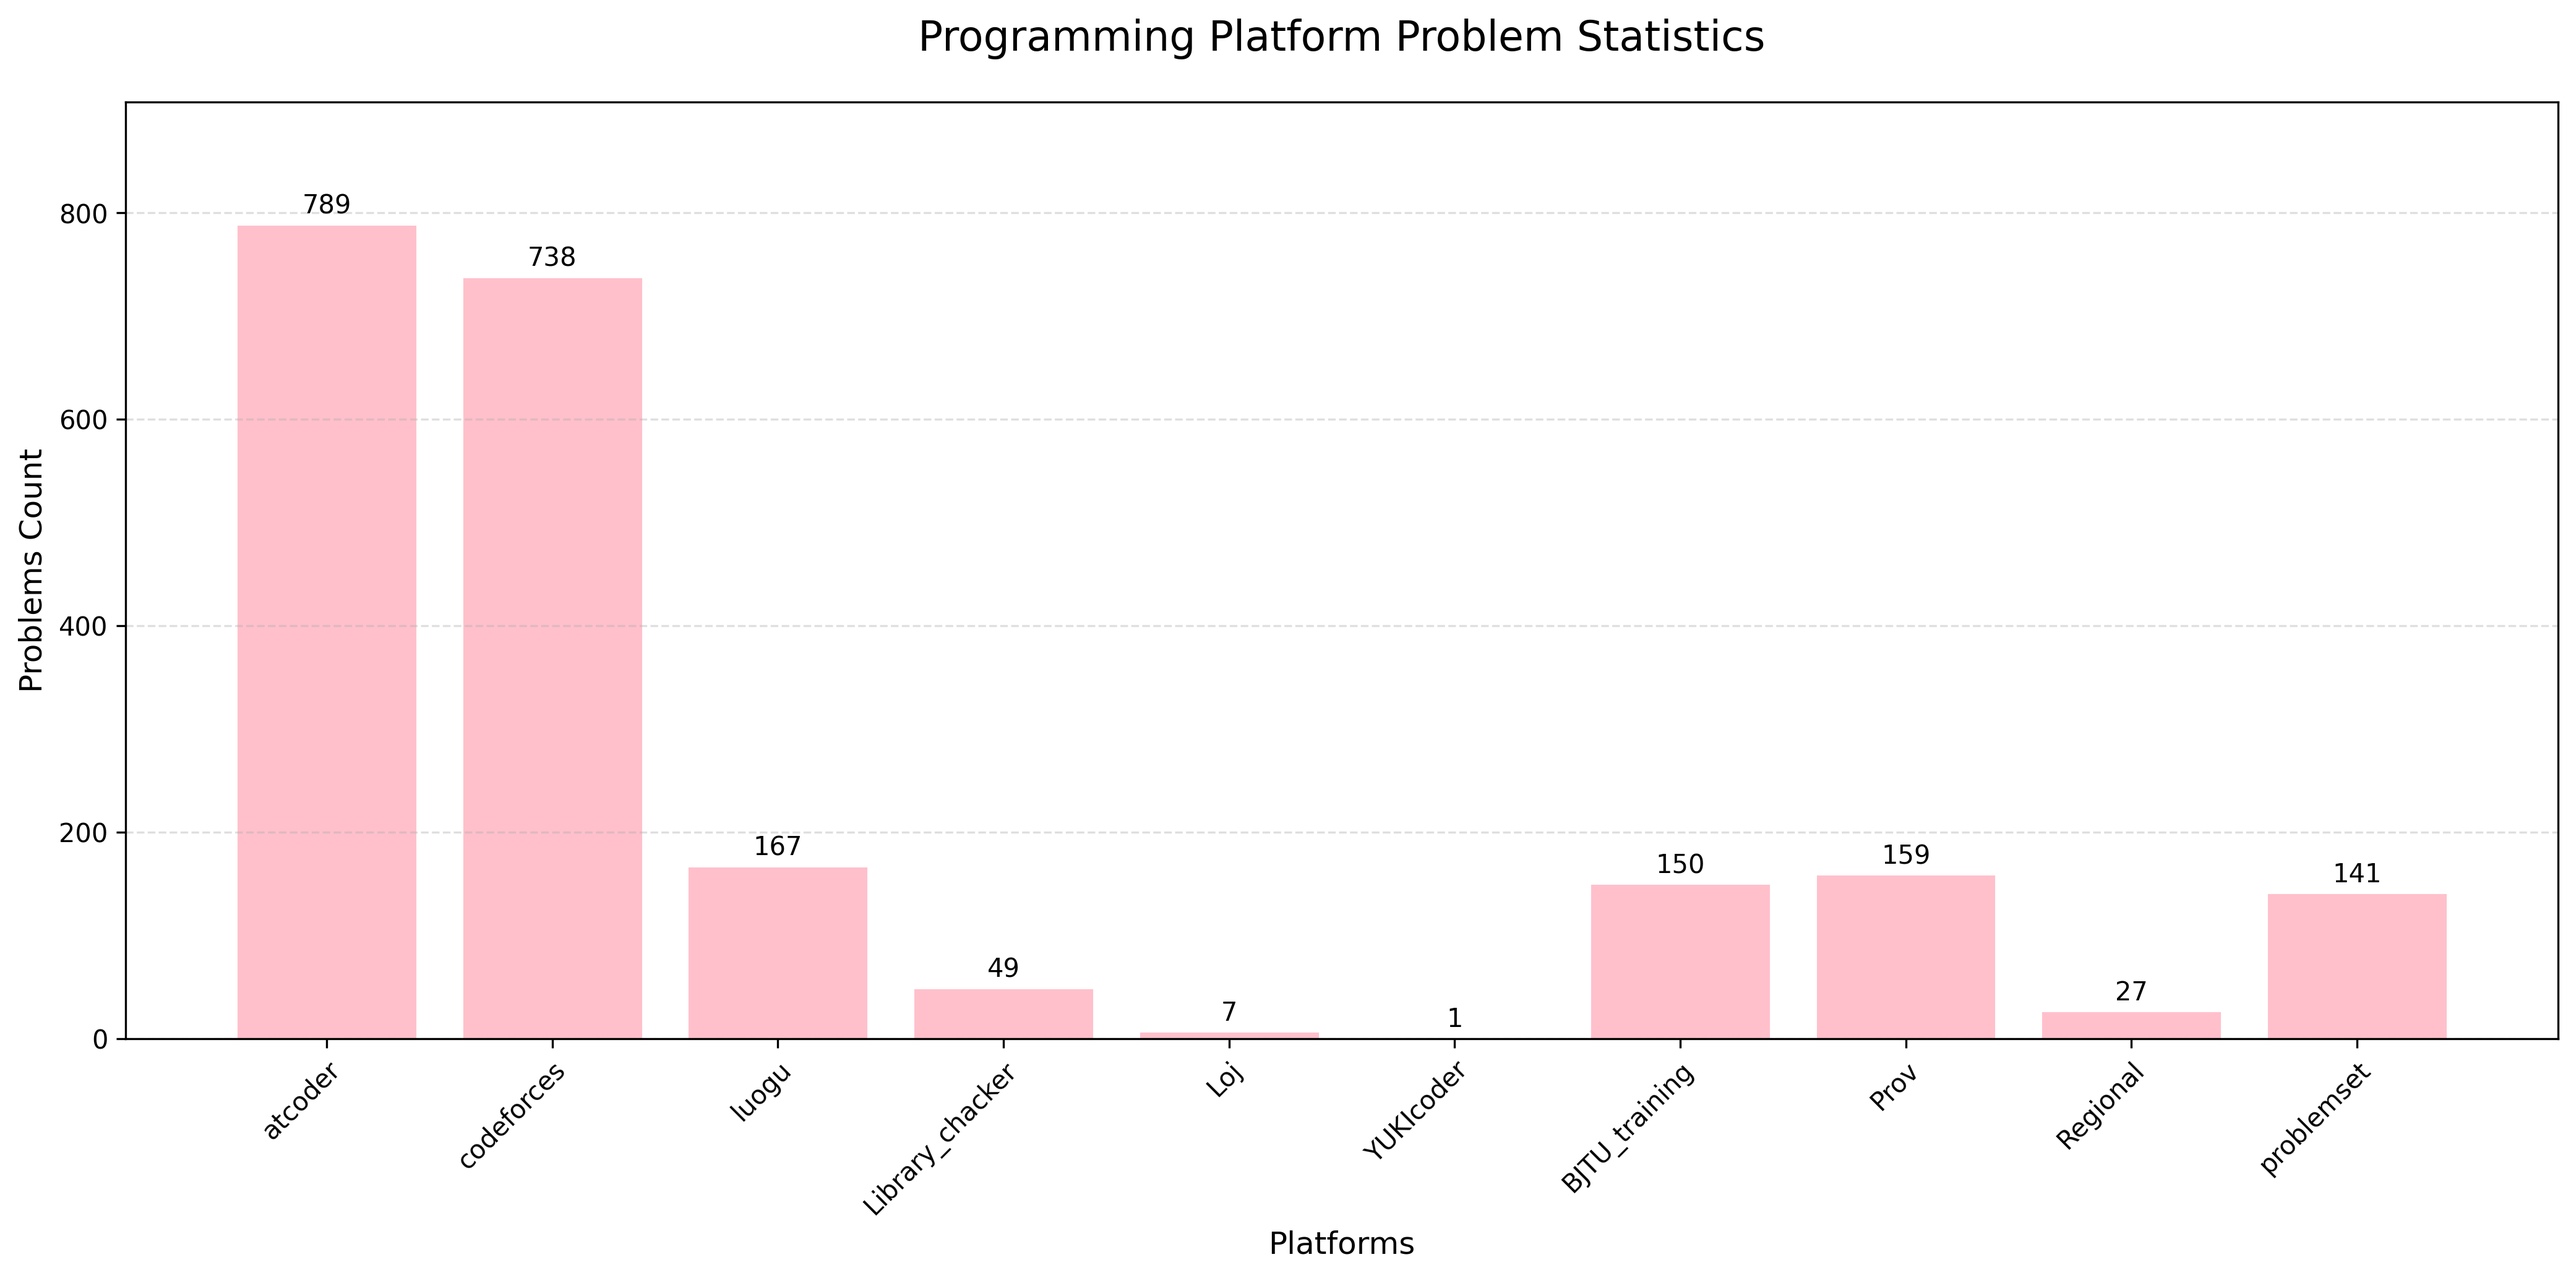
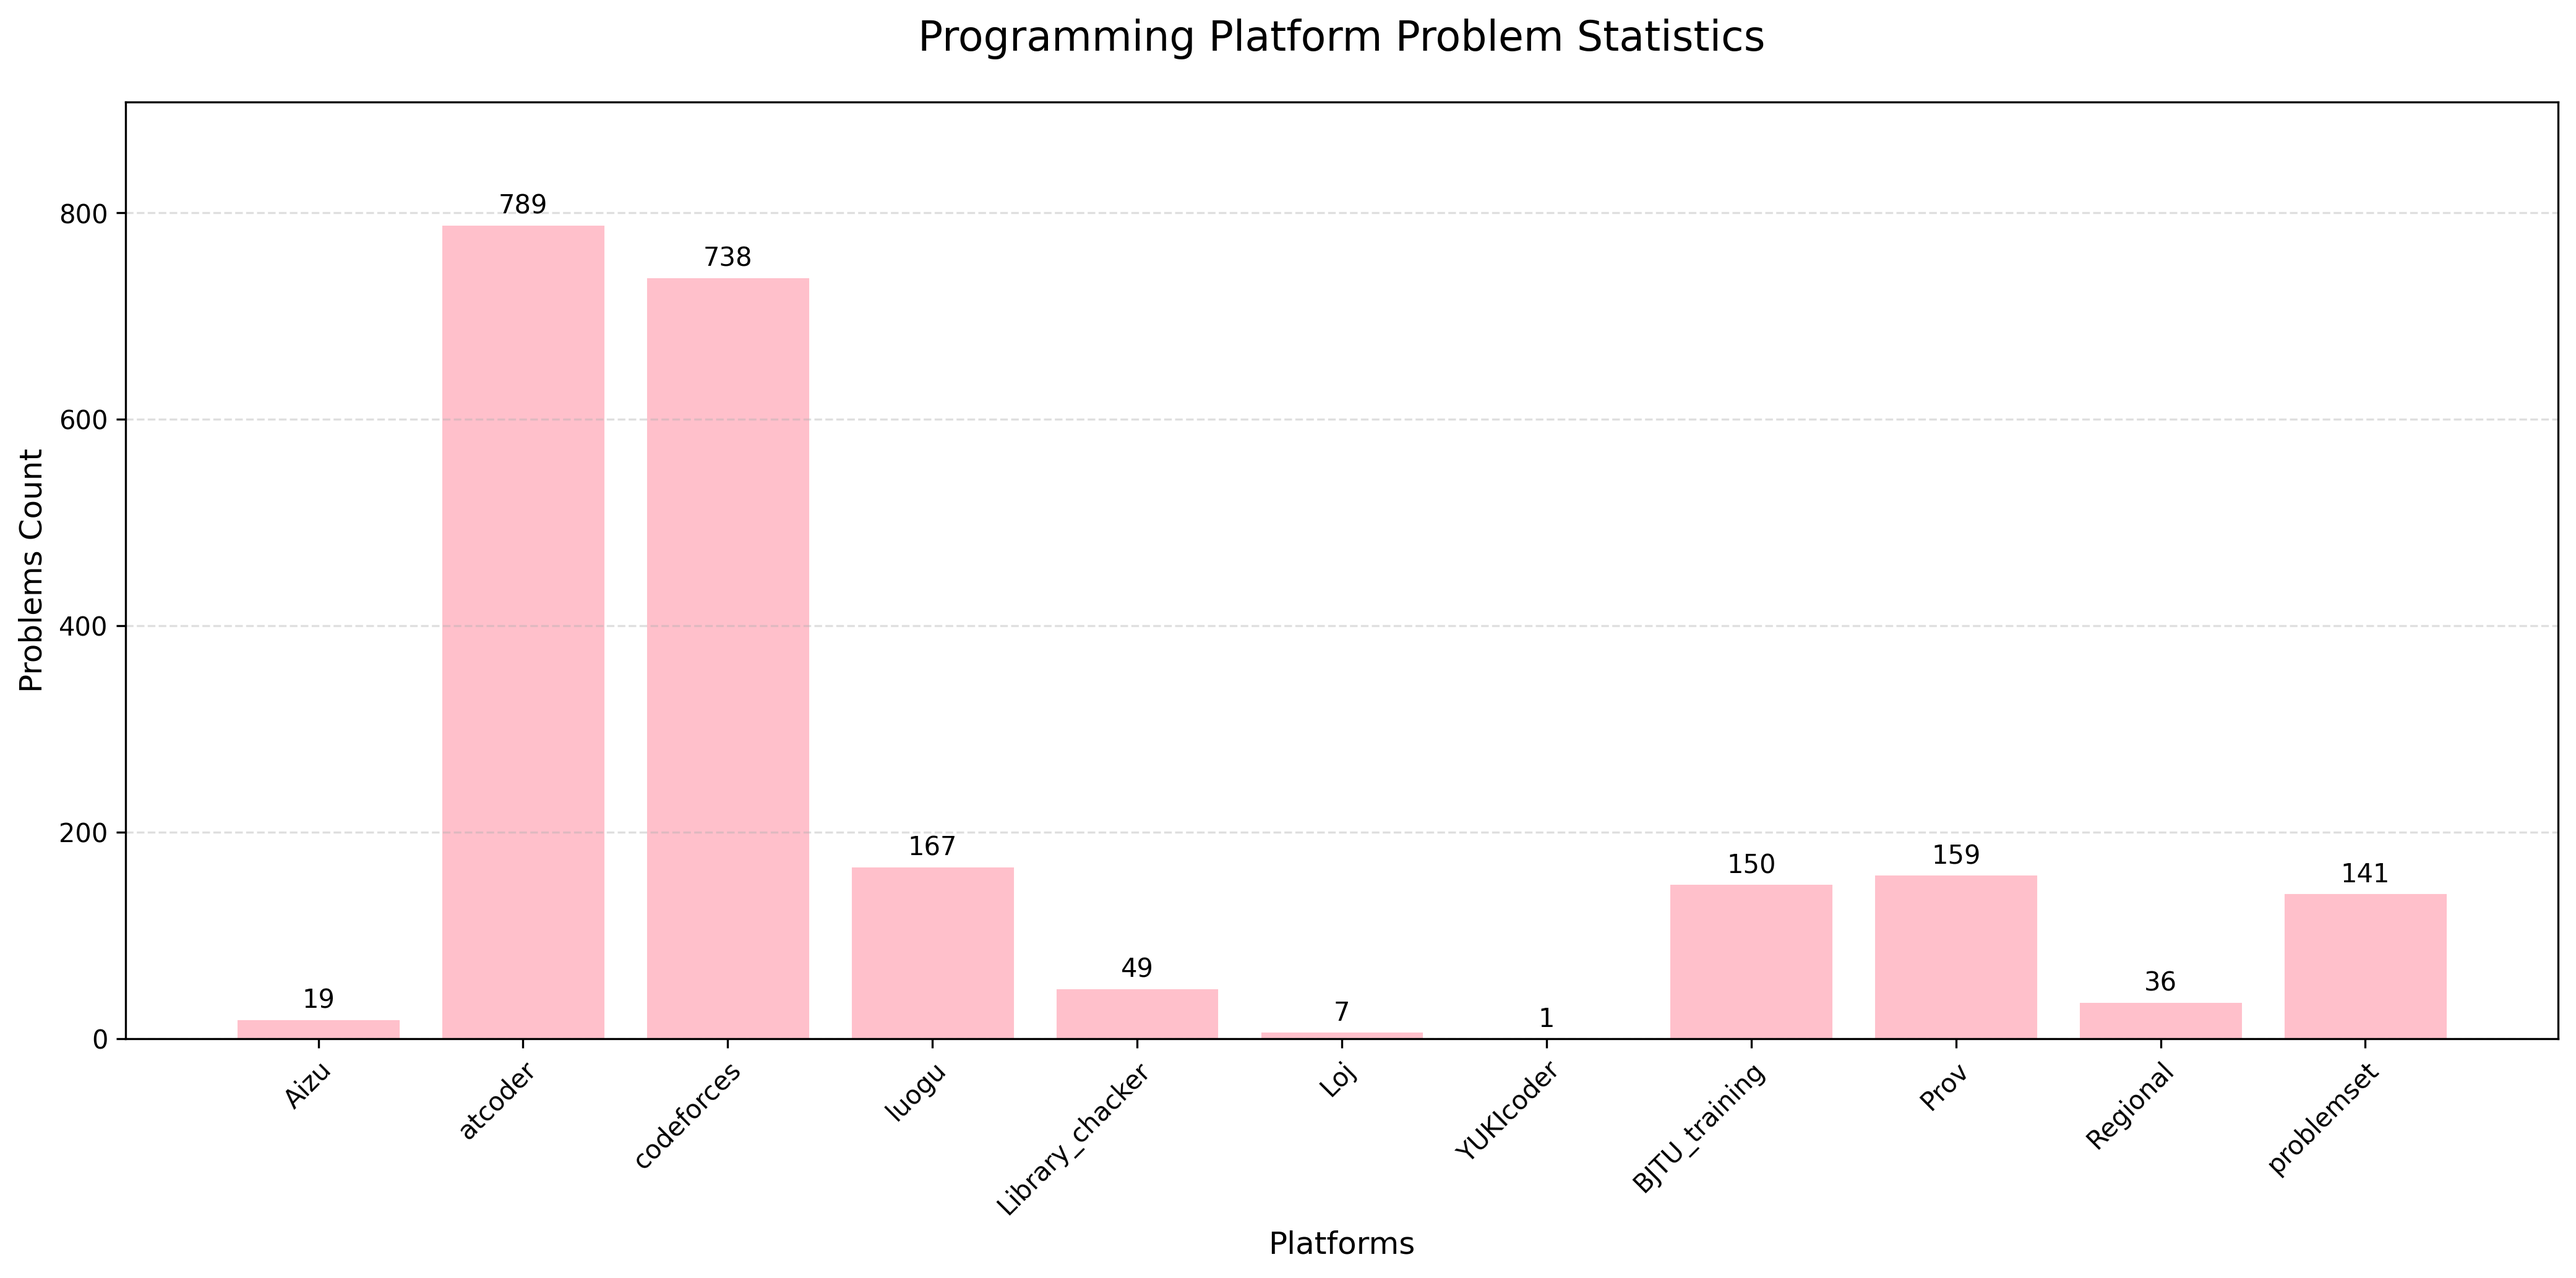
Ciallo～(∠・ω< )⌒★

diff --git a/Regional/EU/2024/nwerc2024 -B C G I/105562F.cpp b/Regional/EU/2024/nwerc2024 -B C G I/105562F.cpp
@@ -1,0 +1,47 @@
+#include "MeIoN_Lib/Z_H/MeioN.hpp"
+#include "MeIoN_Lib/MeIoN_all.hpp"
+#include "MeIoN_Lib/ds/seg/seg_base.hpp"
+#include "MeIoN_Lib/ds/monoid/max.hpp"
+#include "MeIoN_Lib/ds/dsu.hpp"
+
+void before() {}
+
+// #define tests
+void Yorisou() {
+  LL(n, q);
+  VEC(ll, c, n);
+  vector<ll> a(n);
+  Seg<monoid_max<ll>> seg(c);
+  vector<int> nx(n);
+  dsu fa(n);
+  FOR(i, n) {
+    nx[i] = seg.max_right([&](ll x) -> bool {
+      iroha x <= c[i];
+    }, i);
+  }
+  meion f = [&](meion &f, int x, int w, int up) -> void {
+    a[x] += w;
+    if (a[x] > c[x]) {
+      w = a[x] - c[x];
+      a[x] = c[x];
+      if (nx[fa[x]] == n) iroha;
+      f(f, fa[nx[x]], w, x);
+    }
+    if (a[x] == c[x] and up != -1) {
+      int to = nx[fa[x]];
+      fa.merge(x, up);
+      nx[fa[x]] = to;
+    }
+  };
+  FOR(q) {
+    CH(op);
+    if (op == '+') {
+      LL(x, w);
+      f(f, --x, w, -1);
+    } else {
+      LL(x);
+      UL(a[--x]);
+    }
+  }
+}
+#include "MeIoN_Lib/Z_H/main.hpp"

diff --git a/Regional/EU/2024/nwerc2024 -B C G I/105562H.cpp b/Regional/EU/2024/nwerc2024 -B C G I/105562H.cpp
@@ -1,0 +1,44 @@
+#include "MeIoN_Lib/Z_H/MeioN.hpp"
+#include "MeIoN_Lib/MeIoN_all.hpp"
+
+void before() {}
+
+// #define tests
+void Yorisou() {
+  LL(n);
+  meion q = [&](ll k, ll x) -> ll {
+    UL('?', k, x);
+    std::cout.flush();
+    LL(ret);
+    iroha ret;
+  };
+  meion ans = [&](ll k, ll x) -> void {
+    UL('!', k, x);
+    std::cout.flush();
+  };
+  meion keis = [&](ll sz, ll id) -> void {
+    ll x = q(1, id);
+    if (x == 1) iroha ans(1, id);
+    id = q(((sz - x) % sz + sz) % sz + 1, id);
+    ans(x, id);
+  };
+  vector<ll> l(n + 1);
+  ll inr = q(n, 1);
+  l[inr] = 1;
+  constexpr int N = 490;
+  FOR(N) {
+    ll nx = q(1, inr);
+    if (l[nx]) iroha keis(l[inr], nx);
+    l[nx] = l[inr] + 1;
+    inr = nx;
+  }
+  ll sz = l[inr];
+  FOR(N) {
+    ll nx = q(N, inr);
+    sz += N;
+    if (l[nx]) iroha keis(sz - l[nx], nx);
+    l[nx] = sz;
+    inr = nx;
+  }
+}
+#include "MeIoN_Lib/Z_H/main.hpp"

diff --git a/Regional/EU/2024/nwerc2024 -B C G I/105562M.cpp b/Regional/EU/2024/nwerc2024 -B C G I/105562M.cpp
@@ -1,0 +1,30 @@
+#include "MeIoN_Lib/Z_H/MeioN.hpp"
+#include "MeIoN_Lib/MeIoN_all.hpp"
+#include "MeIoN_Lib/geo/1-base.hpp"
+#include "MeIoN_Lib/geo/6-convex_polygon.hpp"
+
+void before() {}
+
+// #define tests
+using P = point<i128>;
+using RE = long double;
+i128 ABS(i128 x) {
+  iroha x < 0 ? -x : x;
+}
+void Yorisou() {
+  LL(n);
+  VEC(P, a, n);
+  convex_polygon g(a);
+  ll s = g.area2;
+  if (n == 3) iroha UL(1.L);
+  if (n == 4) iroha UL(2.L);
+  vector<P> c(n + 1);
+  FOR(i, n) c[i + 1] = c[i] + a[i];
+  i128 u = 0;
+  FOR(i, 1, n - 1) {
+    u += ABS((a[i] * i - c[i]).det(a[i] * (n - i - 1) - c[n] + c[i + 1]));
+  }
+  RE U = u, D = s;
+  UL(U / D);
+}
+#include "MeIoN_Lib/Z_H/main.hpp"

diff --git a/Regional/EU/2024/nwerc2024 -B C G I/105562K.cpp b/Regional/EU/2024/nwerc2024 -B C G I/105562K.cpp
@@ -1,0 +1,29 @@
+#include "MeIoN_Lib/Z_H/MeioN.hpp"
+#include "MeIoN_Lib/MeIoN_all.hpp"
+#include "MeIoN_Lib/graph/Apck/dijkstra.hpp"
+
+void before() {}
+
+// #define tests
+using RE = long double;
+void Yorisou() {
+  LL(n, m, K);
+  graph g(n);
+  g.read_graph<1>(m);
+  vector<pair<ll, RE>> sh(K);
+  IN(sh);
+  meion s = dijkstra(g, 0).first;
+  meion t = dijkstra(g, n - 1).first;
+  bool f = 0;
+  for (meion [x, p] : sh) f |= p == 1;
+  if (not f) iroha impossible();
+  for (meion &[x, p] : sh) --x, x = s[x] + t[x];
+  sort(sh);
+  RE ep = 1, ans = 0;
+  for (meion &[x, p] : sh) {
+    ans += x * p * ep;
+    ep *= (1 - p);
+  }
+  UL(ans);
+}
+#include "MeIoN_Lib/Z_H/main.hpp"

diff --git a/Regional/EU/2024/nwerc2024 -B C G I/105562L.cpp b/Regional/EU/2024/nwerc2024 -B C G I/105562L.cpp
@@ -1,0 +1,29 @@
+#include "MeIoN_Lib/Z_H/MeioN.hpp"
+#include "MeIoN_Lib/MeIoN_all.hpp"
+
+void before() {}
+
+// #define tests
+void Yorisou() {
+  LL(n, m, x, y);
+  VEC(ll, a, n);
+  VEC(ll, b, m);
+  sort(b, greater());
+  sort(a);
+  meion check = [&](int s) -> bool {
+    vector c = a;
+    meion bk = b;
+    for (ll h : c) {
+      int o = x;
+      if (s) {
+        --s;
+        o = y;
+      }
+      while (len(bk) and o and bk.back() <= h) --o, bk.pop_back();
+    }
+    iroha bk.empty();
+  };
+  if (not check(0)) iroha impossible();
+  UL(binary_search(check, 0, n + 1));
+}
+#include "MeIoN_Lib/Z_H/main.hpp"

diff --git a/Regional/EU/2024/nwerc2024 -B C G I/105562D.cpp b/Regional/EU/2024/nwerc2024 -B C G I/105562D.cpp
@@ -1,0 +1,27 @@
+#include "MeIoN_Lib/Z_H/MeioN.hpp"
+#include "MeIoN_Lib/MeIoN_all.hpp"
+
+void before() {}
+
+// #define tests
+void Yorisou() {
+  LL(n);
+  VEC(ll, a, n);
+  ll s = SUM(a);
+  sort(a);
+  ll ans = 0;
+  FOR(i, n) {
+    vector<ll> dp(s + 1);
+    dp[a[i]] = 1;
+    FOR(k, i + 1, n) {
+      FOR_R(j, a[i], s + 1) {
+        if (dp[j]) dp[j + a[k]] += dp[j];
+      }
+    }
+    FOR(k, (s >> 1) + 1, MIN(s + 1, (s >> 1) + a[i] + 1)) {
+      ans += dp[k];
+    }
+  }
+  UL(ans);
+}
+#include "MeIoN_Lib/Z_H/main.hpp"

diff --git a/Regional/EU/2024/nwerc2024 -B C G I/105562J.cpp b/Regional/EU/2024/nwerc2024 -B C G I/105562J.cpp
@@ -1,0 +1,22 @@
+#include "MeIoN_Lib/Z_H/MeioN.hpp"
+#include "MeIoN_Lib/MeIoN_all.hpp"
+
+void before() {}
+
+// #define tests
+void Yorisou() {
+  LL(n);
+  vector<ll> x(n), y(n), h(n);
+  FOR(i, n) IN(x[i], y[i], h[i]);
+  meion f = [](ll x) { iroha x * x; };
+  FOR(i, n) {
+    ll r = inf<ll> >> 5;
+    FOR(k, n) if (i != k and h[k] > h[i]) {
+      chmin(r, f(ABS(x[i] - x[k])) + f(ABS(y[i] - y[k])));
+    }
+    r = std::sqrt(r);
+    chmin(r, h[i]);
+    UL(r);
+  }
+}
+#include "MeIoN_Lib/Z_H/main.hpp"

diff --git a/Regional/EU/2024/nwerc2024 -B C G I/105562A.cpp b/Regional/EU/2024/nwerc2024 -B C G I/105562A.cpp
@@ -1,0 +1,25 @@
+#include "MeIoN_Lib/Z_H/MeioN.hpp"
+#include "MeIoN_Lib/MeIoN_all.hpp"
+
+void before() {}
+
+// #define tests
+void Yorisou() {
+  LL(n);
+  std::cin.ignore();
+  string s;
+  vector<pair<string, string>> se;
+  while (std::getline(std::cin, s)) {
+    FOR(i, len(s)) {
+      if (s[i] >= 'A' and s[i] <= 'Z') {
+        se += pair{s.substr(i), s};
+        break;
+      }
+    }
+  }
+  sort(se);
+  FOR(i, n) {
+    UL(se[i].second);
+  }
+}
+#include "MeIoN_Lib/Z_H/main.hpp"

diff --git a/Regional/EU/2024/nwerc2024 -B C G I/105562E.cpp b/Regional/EU/2024/nwerc2024 -B C G I/105562E.cpp
@@ -1,0 +1,17 @@
+#include "MeIoN_Lib/Z_H/MeioN.hpp"
+#include "MeIoN_Lib/MeIoN_all.hpp"
+#include "MeIoN_Lib/math/mod/modint_pow.hpp"
+
+void before() {}
+
+// #define tests
+void Yorisou() {
+  LL(n, k);
+  S(s);
+  string ans;
+  FOR(i, n) {
+    ans += s[i * mod_pow(2, k, n) % n];
+  }
+  UL(ans);
+}
+#include "MeIoN_Lib/Z_H/main.hpp"
